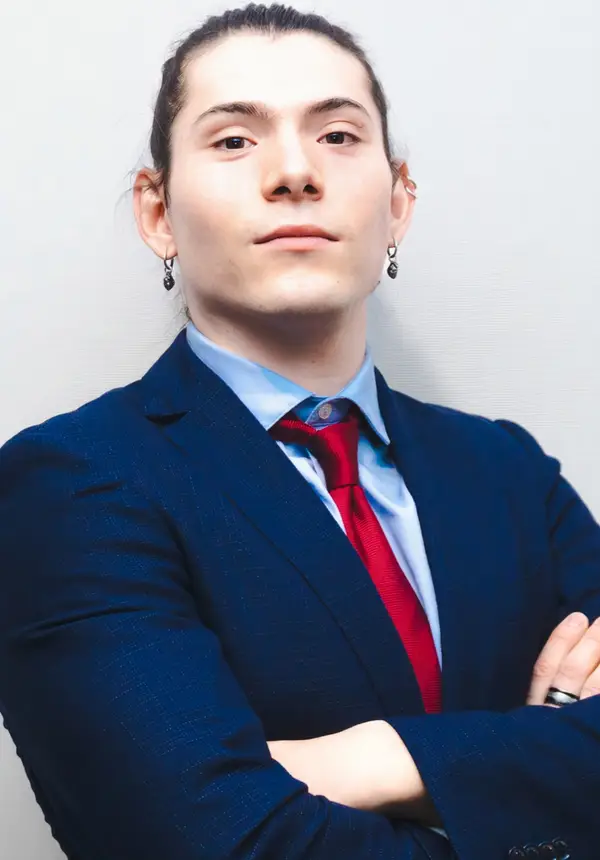
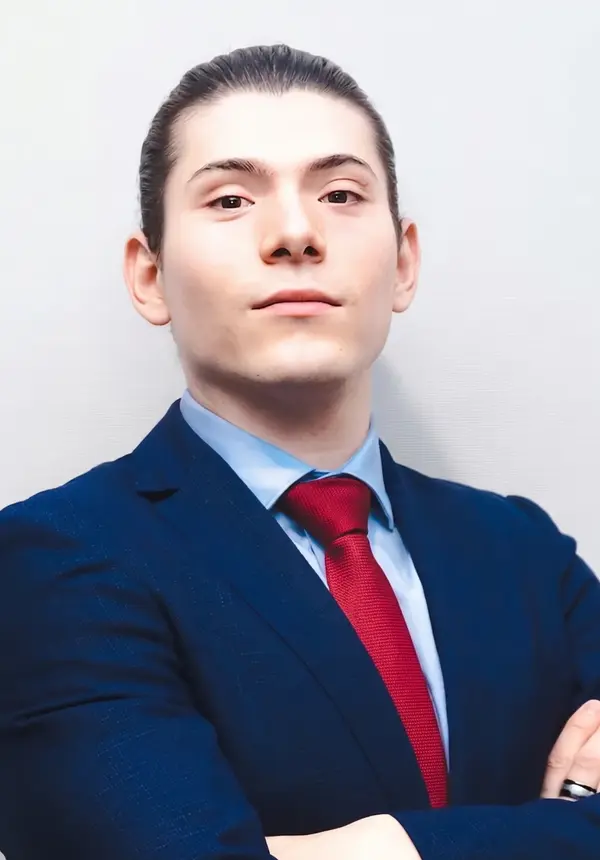
AFyV Legal v7: 'El derecho cerca de ti', bandera en líneas y servicios de defensa de marcas
- Título de portada 'El derecho cerca de ti'; se quitan firma y sello bajo la portada
- Bandera chilena solo en líneas, dibujada al cargar
- Se elimina el sello giratorio de portada, documento y pie
- Se quita la nota de IA en los cinco compromisos
- Marcas: defensa ante observaciones de fondo, oposiciones y apelación ante el TDPI
- Nueva fotografía de Gabriel

Claude-Session: https://claude.ai/code/session_01AMyUA5yo8on86nQ1ZTzmbu

diff --git a/afyv-legal/index.html b/afyv-legal/index.html
@@ -51,35 +51,19 @@
   <div class="wrap hero__inner">
     <div class="hero__top">
       <span class="label" data-reveal>Estudio para pymes y emprendedores</span>
-      <span class="hero__place" data-reveal="1"><span class="flag-cl" role="img" aria-label="Bandera de Chile">
-  <svg viewBox="0 0 30 20" aria-hidden="true" focusable="false">
-    <defs>
-      <clipPath id="flag-clip"><rect width="30" height="20" rx="2.2"/></clipPath>
-      <linearGradient id="flag-shade" x1="0" y1="0" x2="1" y2="1">
-        <stop offset="0" stop-color="#fff" stop-opacity=".22"/><stop offset=".45" stop-color="#fff" stop-opacity="0"/><stop offset="1" stop-color="#000" stop-opacity=".18"/>
-      </linearGradient>
-    </defs>
-    <g clip-path="url(#flag-clip)">
-      <rect width="30" height="10" fill="#ffffff"/>
-      <rect y="10" width="30" height="10" fill="#d52b1e"/>
-      <rect width="10" height="10" fill="#0039a6"/>
-      <polygon points="5.000,2.500 5.588,4.191 7.378,4.227 5.951,5.309 6.469,7.023 5.000,6.000 3.531,7.023 4.049,5.309 2.622,4.227 4.412,4.191" fill="#ffffff"/>
-      <rect width="30" height="20" fill="url(#flag-shade)"/>
-      <rect class="flag-cl__sheen" x="-14" y="-4" width="8" height="28" fill="#fff" opacity=".35" transform="rotate(20 0 0)"/>
-    </g>
-    <rect x=".25" y=".25" width="29.5" height="19.5" rx="2" fill="none" stroke="rgba(255,255,255,.35)" stroke-width=".5"/>
+      <span class="hero__place" data-reveal="1"><span class="flag-cl flag-cl--line" role="img" aria-label="Bandera de Chile">
+  <svg viewBox="-0.5 -0.5 31 21" aria-hidden="true" focusable="false">
+    <rect class="fl" width="30" height="20" rx="1.6" pathLength="1"/>
+    <path class="fl" d="M0 10H30M10 0V10" pathLength="1"/>
+    <polygon class="fl" points="5.000,2.500 5.588,4.191 7.378,4.227 5.951,5.309 6.469,7.023 5.000,6.000 3.531,7.023 4.049,5.309 2.622,4.227 4.412,4.191" pathLength="1"/>
   </svg>
 </span></span>
     </div>
     <h1 class="hero__title" id="hero-title">
-      <span class="hero__human" data-split>Lo legal de tu empresa, <span class="hl hero__hl">claro<svg class="hero__ul" viewBox="0 0 300 18" preserveAspectRatio="none" aria-hidden="true"><path pathLength="1" d="M3 12 C 60 4, 120 15, 180 8 S 260 5, 297 9"/></svg></span> y&nbsp;a&nbsp;tiempo.</span>
+      <span class="hero__human" data-split>El derecho <span class="hl hero__hl">cerca<svg class="hero__ul" viewBox="0 0 300 18" preserveAspectRatio="none" aria-hidden="true"><path pathLength="1" d="M3 12 C 60 4, 120 15, 180 8 S 260 5, 297 9"/></svg></span> de&nbsp;ti.</span>
     </h1>
     <p class="hero__lede" data-reveal="2">Somos AFyV Legal, un estudio que acompaña a pymes y emprendedores en marcas, sociedades, contratos y cobranza, con precio fijo conocido antes de empezar.</p>
     <div class="hero__row">
-      <div class="hero__sign" data-sign-intro aria-hidden="true"><svg class="sign" viewBox="0 0 320 110" aria-hidden="true"><path class="sign__path" d="M10 78c18-30 34-58 46-58 10 0-6 52-2 60 6 10 24-44 34-44 8 0 2 34 10 34 10 0 18-30 28-30 8 0 0 26 8 26 14 0 22-40 36-40 10 0-4 30 6 30 12 0 20-22 34-22 12 0 6 18 16 18 18 0 36-16 60-18M40 96c60-6 140-10 250-8"/></svg><span class="mono">Firma del responsable del encargo</span><span class="seal" aria-hidden="true"><svg viewBox="0 0 120 120"><defs><path id="seal-hero" d="M60 60 m-46 0 a46 46 0 1 1 92 0 a46 46 0 1 1 -92 0"/></defs>
-    <circle cx="60" cy="60" r="57" class="seal__ring"/><circle cx="60" cy="60" r="35" class="seal__ring"/>
-    <g class="seal__text"><text><textPath href="#seal-hero" textLength="286">REVISADO Y FIRMADO · AFyV LEGAL · </textPath></text></g>
-    <text x="60" y="66" text-anchor="middle" class="seal__mark">AFyV</text></svg></span></div>
       <div class="hero__actions" data-reveal="3">
         <a class="btn " href="servicios.html" data-magnetic >Servicios y precios<span class="btn__icon"><svg viewBox="0 0 14 14" aria-hidden="true" focusable="false"><path d="M1 7h11M8 3l4 4-4 4" fill="none" stroke="currentColor" stroke-width="1.6"/></svg></span></a>
         <a class="paren" href="#contacto">Contáctanos</a>
@@ -136,7 +120,6 @@
           <span class="label label--titulo" data-reveal><span class="label__t">Título II</span><span aria-hidden="true">·</span> Lo que puedes esperar</span>
           <h2 class="title" id="promesas-title" data-split style="margin-top:1.5rem">Cinco compromisos <span class="hl">por escrito</span></h2>
         </div>
-        <p class="ia-note" data-reveal><span class="ia-note__dot" aria-hidden="true"></span><span class="ia-note__k mono">Con IA</span><span>La IA acorta los tiempos; estos compromisos no cambian.</span></p>
       </div>
       <div class="clauses-paper doc-paper" data-clauses>
         <span class="clauses__rail" aria-hidden="true"><span></span></span>
@@ -194,10 +177,6 @@
           </div>
           <div class="doc__sign">
             <div><span class="mono">Responsable del encargo</span><svg class="sign" viewBox="0 0 320 110" aria-hidden="true"><path class="sign__path" d="M10 78c18-30 34-58 46-58 10 0-6 52-2 60 6 10 24-44 34-44 8 0 2 34 10 34 10 0 18-30 28-30 8 0 0 26 8 26 14 0 22-40 36-40 10 0-4 30 6 30 12 0 20-22 34-22 12 0 6 18 16 18 18 0 36-16 60-18M40 96c60-6 140-10 250-8"/></svg></div>
-            <span class="seal" aria-hidden="true"><svg viewBox="0 0 120 120"><defs><path id="seal-doc" d="M60 60 m-46 0 a46 46 0 1 1 92 0 a46 46 0 1 1 -92 0"/></defs>
-    <circle cx="60" cy="60" r="57" class="seal__ring"/><circle cx="60" cy="60" r="35" class="seal__ring"/>
-    <g class="seal__text"><text><textPath href="#seal-doc" textLength="286">REVISADO Y FIRMADO · AFyV LEGAL · </textPath></text></g>
-    <text x="60" y="66" text-anchor="middle" class="seal__mark">AFyV</text></svg></span>
           </div>
         </div>
       </div>
@@ -225,7 +204,7 @@
             <div class="line-card__head"><span class="mono">01</span><span class="line-card__arrow" aria-hidden="true"><svg viewBox="0 0 14 14" aria-hidden="true" focusable="false"><path d="M3 11 11 3M5 3h6v6" fill="none" stroke="currentColor" stroke-width="1.4"/></svg></span></div>
             <h3 class="line-card__t">Marcas</h3>
             <p class="line-card__d">Te decimos el riesgo antes de que pagues las tasas.</p>
-            <ul class="svc-mini"><li><span>Diagnóstico de marca</span><span class="dots" aria-hidden="true"></span><span class="price price--sm"><span class="price__num" data-net="29990" data-gross="35688">$29.990</span></span></li><li><span>Marca protegida (1 clase)</span><span class="dots" aria-hidden="true"></span><span class="price price--sm"><span class="price__num" data-net="100000" data-gross="119000">$100.000</span></span></li><li><span>Vigilancia de marca</span><span class="dots" aria-hidden="true"></span><span class="price price--sm"><span class="price__num" data-net="10000" data-gross="11900">$10.000</span><span class="price__post">al mes</span></span></li></ul>
+            <ul class="svc-mini"><li><span>Diagnóstico de marca</span><span class="dots" aria-hidden="true"></span><span class="price price--sm"><span class="price__num" data-net="29990" data-gross="35688">$29.990</span></span></li><li><span>Marca protegida (1 clase)</span><span class="dots" aria-hidden="true"></span><span class="price price--sm"><span class="price__num" data-net="100000" data-gross="119000">$100.000</span></span></li><li><span>Vigilancia de marca</span><span class="dots" aria-hidden="true"></span><span class="price price--sm"><span class="price__num" data-net="10000" data-gross="11900">$10.000</span><span class="price__post">al mes</span></span></li><li><span>Defensa ante observaciones de fondo</span><span class="dots" aria-hidden="true"></span><span class="price price--sm"><span class="price__quote">Cotización previa</span></span></li><li><span>Oposiciones</span><span class="dots" aria-hidden="true"></span><span class="price price--sm"><span class="price__quote">Cotización previa</span></span></li><li><span>Apelación ante el TDPI</span><span class="dots" aria-hidden="true"></span><span class="price price--sm"><span class="price__quote">Cotización previa</span></span></li></ul>
             <p class="line-card__ia"><span class="ia-note__dot" aria-hidden="true"></span>La IA amplía la búsqueda de marcas similares; el equipo califica el riesgo.</p>
           </article><article class="line-card" data-tilt data-reveal="1">
             <a class="line-card__link" href="servicios.html#corporativo" aria-label="Corporativo pyme: ver alcance y plazos"></a>
@@ -233,7 +212,7 @@
             <div class="line-card__head"><span class="mono">02</span><span class="line-card__arrow" aria-hidden="true"><svg viewBox="0 0 14 14" aria-hidden="true" focusable="false"><path d="M3 11 11 3M5 3h6v6" fill="none" stroke="currentColor" stroke-width="1.4"/></svg></span></div>
             <h3 class="line-card__t">Corporativo pyme</h3>
             <p class="line-card__d">Tu empresa constituida, ordenada y con contratos claros.</p>
-            <ul class="svc-mini"><li><span>Empresa lista (RES)</span><span class="dots" aria-hidden="true"></span><span class="price price--sm"><span class="price__num" data-net="119000" data-gross="141610">$119.000</span></span></li><li><span>Pack Empresa + Marca</span><span class="dots" aria-hidden="true"></span><span class="price price--sm"><span class="price__num" data-net="189000" data-gross="224910">$189.000</span></span></li><li><span>Pacto de socios</span><span class="dots" aria-hidden="true"></span><span class="price price--sm"><span class="price__num" data-net="100000" data-gross="119000">$100.000</span></span></li><li><span>Contrato comercial: revisión</span><span class="dots" aria-hidden="true"></span><span class="price price--sm"><span class="price__num" data-net="85000" data-gross="101150">$85.000</span></span></li></ul>
+            <ul class="svc-mini"><li><span>Empresa lista (RES)</span><span class="dots" aria-hidden="true"></span><span class="price price--sm"><span class="price__num" data-net="119000" data-gross="141610">$119.000</span></span></li><li><span>Pack Empresa + Marca</span><span class="dots" aria-hidden="true"></span><span class="price price--sm"><span class="price__num" data-net="189000" data-gross="224910">$189.000</span></span></li><li><span>Pacto de socios</span><span class="dots" aria-hidden="true"></span><span class="price price--sm"><span class="price__num" data-net="100000" data-gross="119000">$100.000</span></span></li><li><span>Contrato comercial: revisión</span><span class="dots" aria-hidden="true"></span><span class="price price--sm"><span class="price__num" data-net="85000" data-gross="101150">$85.000</span></span></li><li><span>Contrato comercial: redacción</span><span class="dots" aria-hidden="true"></span><span class="price price--sm"><span class="price__pre">desde</span><span class="price__num" data-net="100000" data-gross="119000">$100.000</span></span></li></ul>
             <p class="line-card__ia"><span class="ia-note__dot" aria-hidden="true"></span>Borradores en horas a partir de modelos revisados por el equipo.</p>
           </article><article class="line-card" data-tilt data-reveal="0">
             <a class="line-card__link" href="servicios.html#litigios" aria-label="Litigios y cobranza: ver alcance y plazos"></a>
@@ -402,10 +381,6 @@
       <div class="footer__col"><span class="mono">Contacto</span><a href="mailto:contacto@afyvlegal.com">contacto@afyvlegal.com</a><a href="https://wa.me/56981714111" rel="noopener">+56&nbsp;9&nbsp;8171&nbsp;4111</a><span style="color:var(--text-soft)">Santiago, Chile.</span></div>
     </div>
     <div class="footer__notes">
-      <span class="seal" aria-hidden="true"><svg viewBox="0 0 120 120"><defs><path id="seal-footer" d="M60 60 m-46 0 a46 46 0 1 1 92 0 a46 46 0 1 1 -92 0"/></defs>
-    <circle cx="60" cy="60" r="57" class="seal__ring"/><circle cx="60" cy="60" r="35" class="seal__ring"/>
-    <g class="seal__text"><text><textPath href="#seal-footer" textLength="286">AFyV LEGAL · SANTIAGO DE CHILE · </textPath></text></g>
-    <text x="60" y="66" text-anchor="middle" class="seal__mark">AFyV</text></svg></span>
       <div>
         <p><strong>Aviso legal.</strong> La información de este sitio no es asesoría legal. La relación con el estudio se rige por la carta de encargo.</p>
         <p><strong>Privacidad.</strong> Este sitio no usa cookies ni herramientas que identifiquen a sus visitantes.</p>

diff --git a/afyv-legal/servicios.html b/afyv-legal/servicios.html
@@ -134,6 +134,63 @@
       <p class="ficha__sinia">Si prefieres que tu encargo se trabaje sin IA, te informamos precio y plazo antes de contratar.</p>
     </div>
   </details>
+</article><article class="svc-card" data-line="marcas">
+  <div class="svc-card__top">
+    <span class="mono svc-card__line">Marcas</span>
+    <span class="mono svc-card__modo">Precio fijo</span>
+  </div>
+  <h3 class="svc-card__t">Defensa ante observaciones de fondo</h3>
+  <span class="price"><span class="price__quote">Cotización previa</span></span>
+  <div class="svc-card__tags"></div>
+  <p class="svc-card__d">Respuesta a las observaciones de fondo de INAPI, con los argumentos y antecedentes que sostienen tu solicitud.</p>
+  <p class="svc-card__plazo"><svg viewBox="0 0 16 16" aria-hidden="true" focusable="false"><circle cx="8" cy="8" r="6.2" fill="none" stroke="currentColor" stroke-width="1.3"/><path d="M8 4.6V8l2.4 1.6" fill="none" stroke="currentColor" stroke-width="1.3" stroke-linecap="round"/></svg><span>Dentro del plazo legal de respuesta</span></p>
+  <details class="ficha">
+    <summary><span>Ficha de alcance</span><span class="ficha__plus" aria-hidden="true"></span></summary>
+    <div class="ficha__body">
+      <p class="mono">Incluye</p>
+      <ul><li><svg viewBox="0 0 16 16" aria-hidden="true" focusable="false"><path d="M3 8.5 6.5 12 13 4.5" fill="none" stroke="currentColor" stroke-width="1.8" stroke-linecap="round" stroke-linejoin="round"/></svg><span>Análisis de la resolución y de las marcas citadas</span></li><li><svg viewBox="0 0 16 16" aria-hidden="true" focusable="false"><path d="M3 8.5 6.5 12 13 4.5" fill="none" stroke="currentColor" stroke-width="1.8" stroke-linecap="round" stroke-linejoin="round"/></svg><span>Escrito de respuesta con argumentos y antecedentes</span></li><li><svg viewBox="0 0 16 16" aria-hidden="true" focusable="false"><path d="M3 8.5 6.5 12 13 4.5" fill="none" stroke="currentColor" stroke-width="1.8" stroke-linecap="round" stroke-linejoin="round"/></svg><span>Seguimiento hasta la resolución</span></li></ul>
+      <p class="ficha__nota">Si aparece trabajo fuera de este alcance, te lo cotizamos antes y solo se hace con tu aceptación.</p>
+      <p class="ficha__sinia">Si prefieres que tu encargo se trabaje sin IA, te informamos precio y plazo antes de contratar.</p>
+    </div>
+  </details>
+</article><article class="svc-card" data-line="marcas">
+  <div class="svc-card__top">
+    <span class="mono svc-card__line">Marcas</span>
+    <span class="mono svc-card__modo">Precio fijo</span>
+  </div>
+  <h3 class="svc-card__t">Oposiciones</h3>
+  <span class="price"><span class="price__quote">Cotización previa</span></span>
+  <div class="svc-card__tags"></div>
+  <p class="svc-card__d">Te oponemos a una solicitud que afecta tu marca, o defendemos la tuya cuando un tercero se opone.</p>
+  <p class="svc-card__plazo"><svg viewBox="0 0 16 16" aria-hidden="true" focusable="false"><circle cx="8" cy="8" r="6.2" fill="none" stroke="currentColor" stroke-width="1.3"/><path d="M8 4.6V8l2.4 1.6" fill="none" stroke="currentColor" stroke-width="1.3" stroke-linecap="round"/></svg><span>Dentro de los plazos legales</span></p>
+  <details class="ficha">
+    <summary><span>Ficha de alcance</span><span class="ficha__plus" aria-hidden="true"></span></summary>
+    <div class="ficha__body">
+      <p class="mono">Incluye</p>
+      <ul><li><svg viewBox="0 0 16 16" aria-hidden="true" focusable="false"><path d="M3 8.5 6.5 12 13 4.5" fill="none" stroke="currentColor" stroke-width="1.8" stroke-linecap="round" stroke-linejoin="round"/></svg><span>Evaluación de fundamentos y riesgos</span></li><li><svg viewBox="0 0 16 16" aria-hidden="true" focusable="false"><path d="M3 8.5 6.5 12 13 4.5" fill="none" stroke="currentColor" stroke-width="1.8" stroke-linecap="round" stroke-linejoin="round"/></svg><span>Escrito de oposición o de contestación</span></li><li><svg viewBox="0 0 16 16" aria-hidden="true" focusable="false"><path d="M3 8.5 6.5 12 13 4.5" fill="none" stroke="currentColor" stroke-width="1.8" stroke-linecap="round" stroke-linejoin="round"/></svg><span>Prueba y seguimiento hasta la sentencia</span></li></ul>
+      <p class="ficha__nota">Si aparece trabajo fuera de este alcance, te lo cotizamos antes y solo se hace con tu aceptación.</p>
+      <p class="ficha__sinia">Si prefieres que tu encargo se trabaje sin IA, te informamos precio y plazo antes de contratar.</p>
+    </div>
+  </details>
+</article><article class="svc-card" data-line="marcas">
+  <div class="svc-card__top">
+    <span class="mono svc-card__line">Marcas</span>
+    <span class="mono svc-card__modo">Precio fijo</span>
+  </div>
+  <h3 class="svc-card__t">Apelación ante el TDPI</h3>
+  <span class="price"><span class="price__quote">Cotización previa</span></span>
+  <div class="svc-card__tags"></div>
+  <p class="svc-card__d">Recurso ante el Tribunal de Propiedad Industrial contra las resoluciones de INAPI que afectan tu marca.</p>
+  <p class="svc-card__plazo"><svg viewBox="0 0 16 16" aria-hidden="true" focusable="false"><circle cx="8" cy="8" r="6.2" fill="none" stroke="currentColor" stroke-width="1.3"/><path d="M8 4.6V8l2.4 1.6" fill="none" stroke="currentColor" stroke-width="1.3" stroke-linecap="round"/></svg><span>Dentro del plazo legal para apelar</span></p>
+  <details class="ficha">
+    <summary><span>Ficha de alcance</span><span class="ficha__plus" aria-hidden="true"></span></summary>
+    <div class="ficha__body">
+      <p class="mono">Incluye</p>
+      <ul><li><svg viewBox="0 0 16 16" aria-hidden="true" focusable="false"><path d="M3 8.5 6.5 12 13 4.5" fill="none" stroke="currentColor" stroke-width="1.8" stroke-linecap="round" stroke-linejoin="round"/></svg><span>Análisis de la resolución apelada</span></li><li><svg viewBox="0 0 16 16" aria-hidden="true" focusable="false"><path d="M3 8.5 6.5 12 13 4.5" fill="none" stroke="currentColor" stroke-width="1.8" stroke-linecap="round" stroke-linejoin="round"/></svg><span>Escrito de apelación con sus fundamentos</span></li><li><svg viewBox="0 0 16 16" aria-hidden="true" focusable="false"><path d="M3 8.5 6.5 12 13 4.5" fill="none" stroke="currentColor" stroke-width="1.8" stroke-linecap="round" stroke-linejoin="round"/></svg><span>Seguimiento hasta el fallo</span></li></ul>
+      <p class="ficha__nota">Si aparece trabajo fuera de este alcance, te lo cotizamos antes y solo se hace con tu aceptación.</p>
+      <p class="ficha__sinia">Si prefieres que tu encargo se trabaje sin IA, te informamos precio y plazo antes de contratar.</p>
+    </div>
+  </details>
 </article><article class="svc-card" data-line="corporativo">
   <div class="svc-card__top">
     <span class="mono svc-card__line">Corporativo pyme</span>
@@ -471,10 +528,6 @@
       <div class="footer__col"><span class="mono">Contacto</span><a href="mailto:contacto@afyvlegal.com">contacto@afyvlegal.com</a><a href="https://wa.me/56981714111" rel="noopener">+56&nbsp;9&nbsp;8171&nbsp;4111</a><span style="color:var(--text-soft)">Santiago, Chile.</span></div>
     </div>
     <div class="footer__notes">
-      <span class="seal" aria-hidden="true"><svg viewBox="0 0 120 120"><defs><path id="seal-footer" d="M60 60 m-46 0 a46 46 0 1 1 92 0 a46 46 0 1 1 -92 0"/></defs>
-    <circle cx="60" cy="60" r="57" class="seal__ring"/><circle cx="60" cy="60" r="35" class="seal__ring"/>
-    <g class="seal__text"><text><textPath href="#seal-footer" textLength="286">AFyV LEGAL · SANTIAGO DE CHILE · </textPath></text></g>
-    <text x="60" y="66" text-anchor="middle" class="seal__mark">AFyV</text></svg></span>
       <div>
         <p><strong>Aviso legal.</strong> La información de este sitio no es asesoría legal. La relación con el estudio se rige por la carta de encargo.</p>
         <p><strong>Privacidad.</strong> Este sitio no usa cookies ni herramientas que identifiquen a sus visitantes.</p>

diff --git a/afyv-legal/assets/styles.css b/afyv-legal/assets/styles.css
@@ -1791,3 +1791,15 @@ body::after { opacity: 0.045; mix-blend-mode: multiply; }
 .hero__ul path, .clause__ul path { vector-effect: none; }
 .clause__ul path { stroke-width: 2.4; }
 .hero__ul path { stroke-width: 3.2; }
+
+/* ===== v7 ===== */
+.hero--v6 .hero__row { display: flex; flex-wrap: wrap; justify-content: flex-start; margin-top: clamp(1.75rem, 3vw, 2.5rem); }
+.flag-cl--line { width: 2.6rem; aspect-ratio: 31 / 21; height: auto; box-shadow: none; background: none; transform: none; border-radius: 0; color: var(--forest); filter: none; }
+.flag-cl--line svg { overflow: visible; }
+.flag-cl--line .fl { fill: none; stroke: currentColor; stroke-width: 0.9; stroke-linejoin: round; stroke-dasharray: 1; stroke-dashoffset: 0; }
+.flag-cl--line.is-drawing .fl { animation: flag-draw 1.6s cubic-bezier(0.65, 0, 0.35, 1) both; }
+.flag-cl--line.is-drawing .fl:nth-child(2) { animation-delay: 0.35s; }
+.flag-cl--line.is-drawing .fl:nth-child(3) { animation-delay: 0.7s; }
+@keyframes flag-draw { from { stroke-dashoffset: 1; } to { stroke-dashoffset: 0; } }
+.hero--v6 .hero__place { color: var(--forest); }
+@media (prefers-reduced-motion: reduce) { .flag-cl--line.is-drawing .fl { animation: none; } }

diff --git a/afyv-legal/politica-de-privacidad.html b/afyv-legal/politica-de-privacidad.html
@@ -141,10 +141,6 @@ Seguridad.</p>
       <div class="footer__col"><span class="mono">Contacto</span><a href="mailto:contacto@afyvlegal.com">contacto@afyvlegal.com</a><a href="https://wa.me/56981714111" rel="noopener">+56&nbsp;9&nbsp;8171&nbsp;4111</a><span style="color:var(--text-soft)">Santiago, Chile.</span></div>
     </div>
     <div class="footer__notes">
-      <span class="seal" aria-hidden="true"><svg viewBox="0 0 120 120"><defs><path id="seal-footer" d="M60 60 m-46 0 a46 46 0 1 1 92 0 a46 46 0 1 1 -92 0"/></defs>
-    <circle cx="60" cy="60" r="57" class="seal__ring"/><circle cx="60" cy="60" r="35" class="seal__ring"/>
-    <g class="seal__text"><text><textPath href="#seal-footer" textLength="286">AFyV LEGAL · SANTIAGO DE CHILE · </textPath></text></g>
-    <text x="60" y="66" text-anchor="middle" class="seal__mark">AFyV</text></svg></span>
       <div>
         <p><strong>Aviso legal.</strong> La información de este sitio no es asesoría legal. La relación con el estudio se rige por la carta de encargo.</p>
         <p><strong>Privacidad.</strong> Este sitio no usa cookies ni herramientas que identifiquen a sus visitantes.</p>

diff --git a/afyv-legal/constituye-tu-empresa.html b/afyv-legal/constituye-tu-empresa.html
@@ -134,10 +134,6 @@
       <div class="footer__col"><span class="mono">Contacto</span><a href="mailto:contacto@afyvlegal.com">contacto@afyvlegal.com</a><a href="https://wa.me/56981714111" rel="noopener">+56&nbsp;9&nbsp;8171&nbsp;4111</a><span style="color:var(--text-soft)">Santiago, Chile.</span></div>
     </div>
     <div class="footer__notes">
-      <span class="seal" aria-hidden="true"><svg viewBox="0 0 120 120"><defs><path id="seal-footer" d="M60 60 m-46 0 a46 46 0 1 1 92 0 a46 46 0 1 1 -92 0"/></defs>
-    <circle cx="60" cy="60" r="57" class="seal__ring"/><circle cx="60" cy="60" r="35" class="seal__ring"/>
-    <g class="seal__text"><text><textPath href="#seal-footer" textLength="286">AFyV LEGAL · SANTIAGO DE CHILE · </textPath></text></g>
-    <text x="60" y="66" text-anchor="middle" class="seal__mark">AFyV</text></svg></span>
       <div>
         <p><strong>Aviso legal.</strong> La información de este sitio no es asesoría legal. La relación con el estudio se rige por la carta de encargo.</p>
         <p><strong>Privacidad.</strong> Este sitio no usa cookies ni herramientas que identifiquen a sus visitantes.</p>

diff --git a/afyv-legal/equipo.html b/afyv-legal/equipo.html
@@ -159,10 +159,6 @@
       <div class="footer__col"><span class="mono">Contacto</span><a href="mailto:contacto@afyvlegal.com">contacto@afyvlegal.com</a><a href="https://wa.me/56981714111" rel="noopener">+56&nbsp;9&nbsp;8171&nbsp;4111</a><span style="color:var(--text-soft)">Santiago, Chile.</span></div>
     </div>
     <div class="footer__notes">
-      <span class="seal" aria-hidden="true"><svg viewBox="0 0 120 120"><defs><path id="seal-footer" d="M60 60 m-46 0 a46 46 0 1 1 92 0 a46 46 0 1 1 -92 0"/></defs>
-    <circle cx="60" cy="60" r="57" class="seal__ring"/><circle cx="60" cy="60" r="35" class="seal__ring"/>
-    <g class="seal__text"><text><textPath href="#seal-footer" textLength="286">AFyV LEGAL · SANTIAGO DE CHILE · </textPath></text></g>
-    <text x="60" y="66" text-anchor="middle" class="seal__mark">AFyV</text></svg></span>
       <div>
         <p><strong>Aviso legal.</strong> La información de este sitio no es asesoría legal. La relación con el estudio se rige por la carta de encargo.</p>
         <p><strong>Privacidad.</strong> Este sitio no usa cookies ni herramientas que identifiquen a sus visitantes.</p>

diff --git a/afyv-legal/ia-responsable.html b/afyv-legal/ia-responsable.html
@@ -317,10 +317,6 @@
       <div class="footer__col"><span class="mono">Contacto</span><a href="mailto:contacto@afyvlegal.com">contacto@afyvlegal.com</a><a href="https://wa.me/56981714111" rel="noopener">+56&nbsp;9&nbsp;8171&nbsp;4111</a><span style="color:var(--text-soft)">Santiago, Chile.</span></div>
     </div>
     <div class="footer__notes">
-      <span class="seal" aria-hidden="true"><svg viewBox="0 0 120 120"><defs><path id="seal-footer" d="M60 60 m-46 0 a46 46 0 1 1 92 0 a46 46 0 1 1 -92 0"/></defs>
-    <circle cx="60" cy="60" r="57" class="seal__ring"/><circle cx="60" cy="60" r="35" class="seal__ring"/>
-    <g class="seal__text"><text><textPath href="#seal-footer" textLength="286">AFyV LEGAL · SANTIAGO DE CHILE · </textPath></text></g>
-    <text x="60" y="66" text-anchor="middle" class="seal__mark">AFyV</text></svg></span>
       <div>
         <p><strong>Aviso legal.</strong> La información de este sitio no es asesoría legal. La relación con el estudio se rige por la carta de encargo.</p>
         <p><strong>Privacidad.</strong> Este sitio no usa cookies ni herramientas que identifiquen a sus visitantes.</p>

diff --git a/afyv-legal/registra-tu-marca.html b/afyv-legal/registra-tu-marca.html
@@ -134,10 +134,6 @@
       <div class="footer__col"><span class="mono">Contacto</span><a href="mailto:contacto@afyvlegal.com">contacto@afyvlegal.com</a><a href="https://wa.me/56981714111" rel="noopener">+56&nbsp;9&nbsp;8171&nbsp;4111</a><span style="color:var(--text-soft)">Santiago, Chile.</span></div>
     </div>
     <div class="footer__notes">
-      <span class="seal" aria-hidden="true"><svg viewBox="0 0 120 120"><defs><path id="seal-footer" d="M60 60 m-46 0 a46 46 0 1 1 92 0 a46 46 0 1 1 -92 0"/></defs>
-    <circle cx="60" cy="60" r="57" class="seal__ring"/><circle cx="60" cy="60" r="35" class="seal__ring"/>
-    <g class="seal__text"><text><textPath href="#seal-footer" textLength="286">AFyV LEGAL · SANTIAGO DE CHILE · </textPath></text></g>
-    <text x="60" y="66" text-anchor="middle" class="seal__mark">AFyV</text></svg></span>
       <div>
         <p><strong>Aviso legal.</strong> La información de este sitio no es asesoría legal. La relación con el estudio se rige por la carta de encargo.</p>
         <p><strong>Privacidad.</strong> Este sitio no usa cookies ni herramientas que identifiquen a sus visitantes.</p>

diff --git a/afyv-legal/terminos-y-condiciones.html b/afyv-legal/terminos-y-condiciones.html
@@ -152,10 +152,6 @@
       <div class="footer__col"><span class="mono">Contacto</span><a href="mailto:contacto@afyvlegal.com">contacto@afyvlegal.com</a><a href="https://wa.me/56981714111" rel="noopener">+56&nbsp;9&nbsp;8171&nbsp;4111</a><span style="color:var(--text-soft)">Santiago, Chile.</span></div>
     </div>
     <div class="footer__notes">
-      <span class="seal" aria-hidden="true"><svg viewBox="0 0 120 120"><defs><path id="seal-footer" d="M60 60 m-46 0 a46 46 0 1 1 92 0 a46 46 0 1 1 -92 0"/></defs>
-    <circle cx="60" cy="60" r="57" class="seal__ring"/><circle cx="60" cy="60" r="35" class="seal__ring"/>
-    <g class="seal__text"><text><textPath href="#seal-footer" textLength="286">AFyV LEGAL · SANTIAGO DE CHILE · </textPath></text></g>
-    <text x="60" y="66" text-anchor="middle" class="seal__mark">AFyV</text></svg></span>
       <div>
         <p><strong>Aviso legal.</strong> La información de este sitio no es asesoría legal. La relación con el estudio se rige por la carta de encargo.</p>
         <p><strong>Privacidad.</strong> Este sitio no usa cookies ni herramientas que identifiquen a sus visitantes.</p>

diff --git a/afyv-legal/assets/main.js b/afyv-legal/assets/main.js
@@ -466,6 +466,9 @@
       ScrollTrigger.create({ trigger: el, start: 'top 85%', once: true, onEnter: () => scramble(el, { duration: 1.4 }) });
     });
 
+    // Hero: the flag is drawn line by line
+    $$('[data-intro] .flag-cl--line').forEach((f) => { f.querySelectorAll('.fl').forEach((l) => { l.style.strokeDashoffset = '1'; }); intro.call(() => { f.querySelectorAll('.fl').forEach((l) => { l.style.strokeDashoffset = ''; }); f.classList.add('is-drawing'); }, null, 0.35); });
+
     // Hero: the key word gets underlined by hand
     $$('.hero__ul path').forEach((p) => { intro.to(p, { strokeDashoffset: 0, duration: 1.1, ease: 'power2.inOut' }, 1.15); });
 
